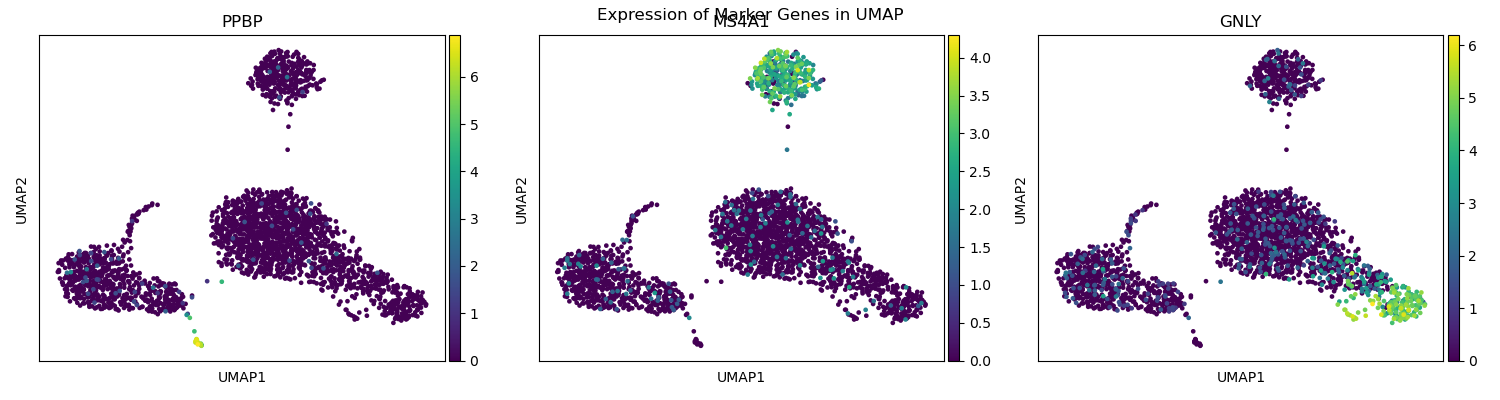
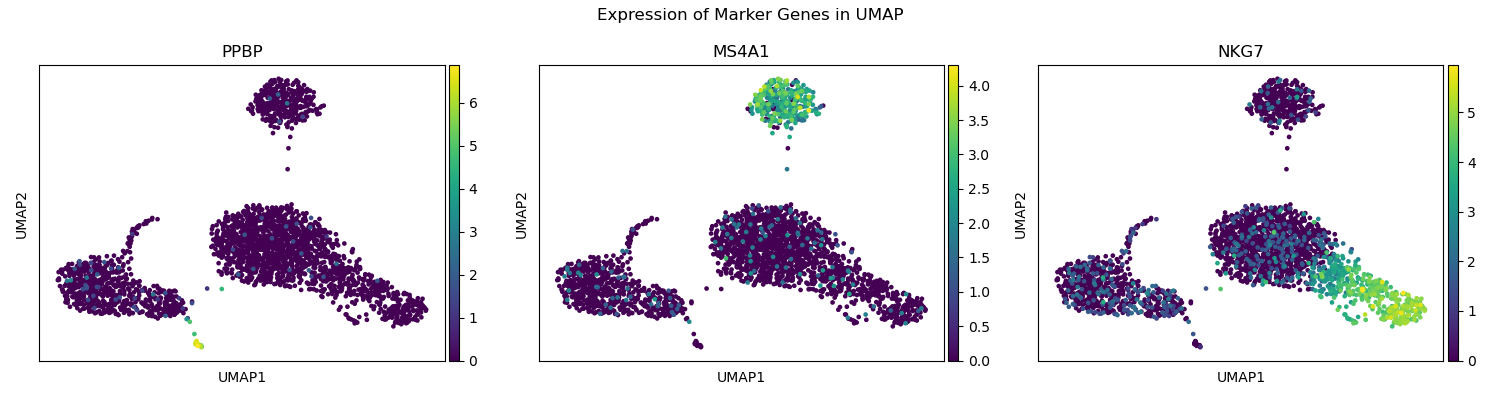
'fone done done holy shit i'm done done odne'

diff --git a/week11/homework.py b/week11/homework.py
@@ -53,7 +53,7 @@ adata.obsm['X_umap'] = umap
 adata.obsm['X_tsne'] = tsne
 
 
-marker_genes = ['PPBP', 'MS4A1', 'GNLY']
+marker_genes = ['PPBP', 'MS4A1', 'NKG7']
 
 sc.tl.umap(adata_copy)
 sc.pl.umap(adata_copy, color=marker_genes, use_raw=False)
@@ -64,9 +64,9 @@ fig, axes = plt.subplots(1, num_genes, figsize=(5*num_genes, 4))
 for i, gene in enumerate(marker_genes):
     sc.pl.umap(adata, color=gene, ax=axes[i], show=False, legend_loc='on data', legend_fontsize=10, title=gene)
 
-plt.tight_layout()
 
 fig.suptitle('Expression of Marker Genes in UMAP')
+plt.tight_layout()
 fig.savefig('marker_genes_umap.png')
 plt.close(fig)
 
